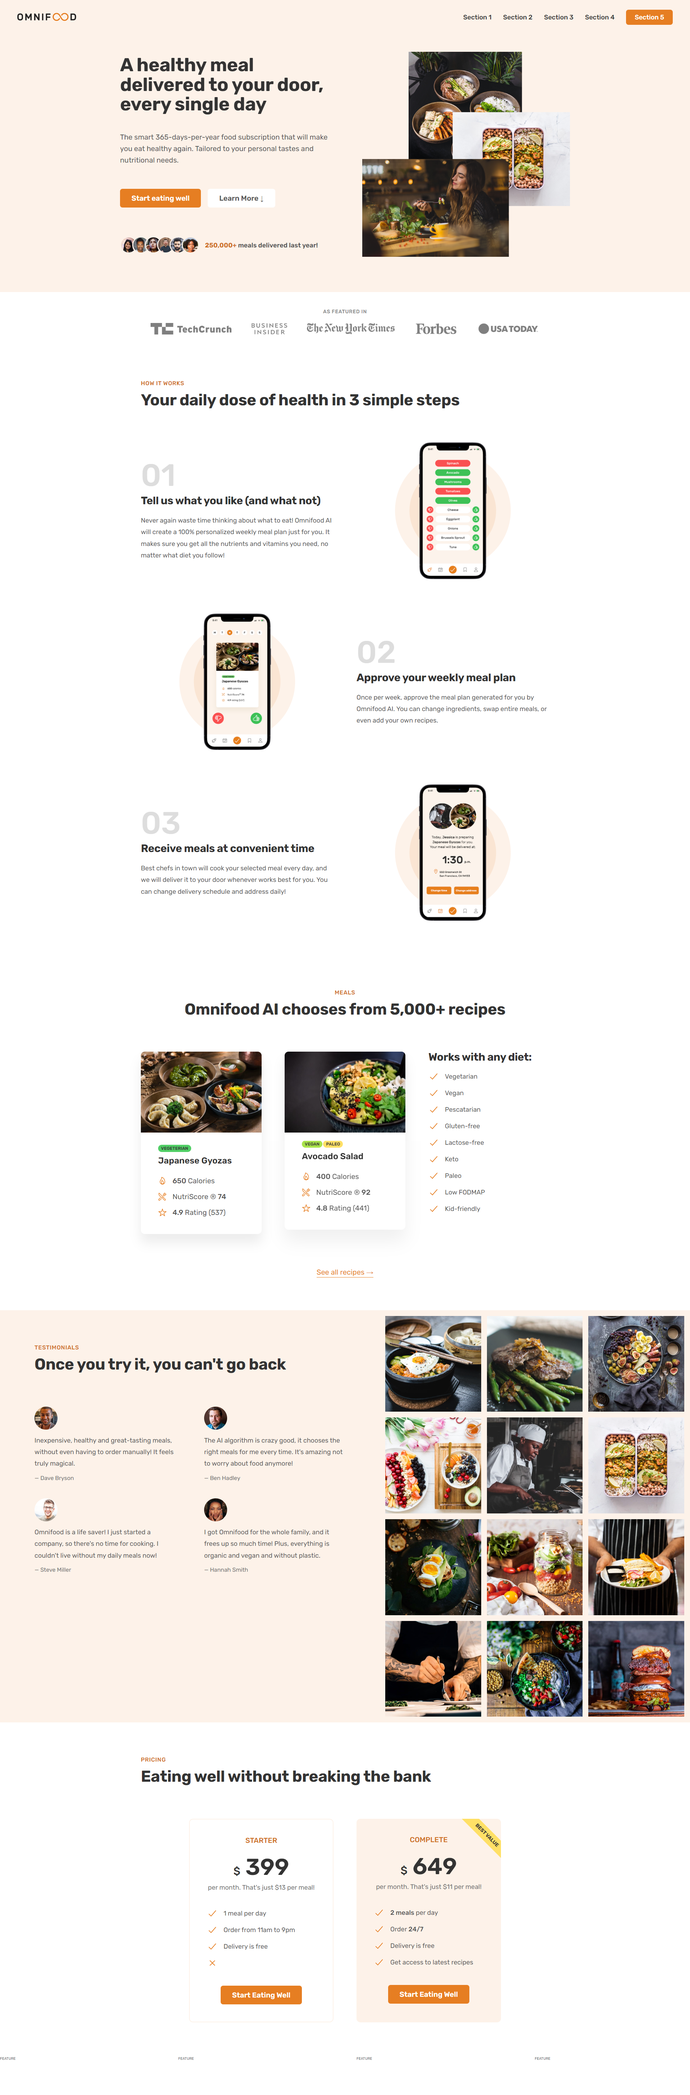
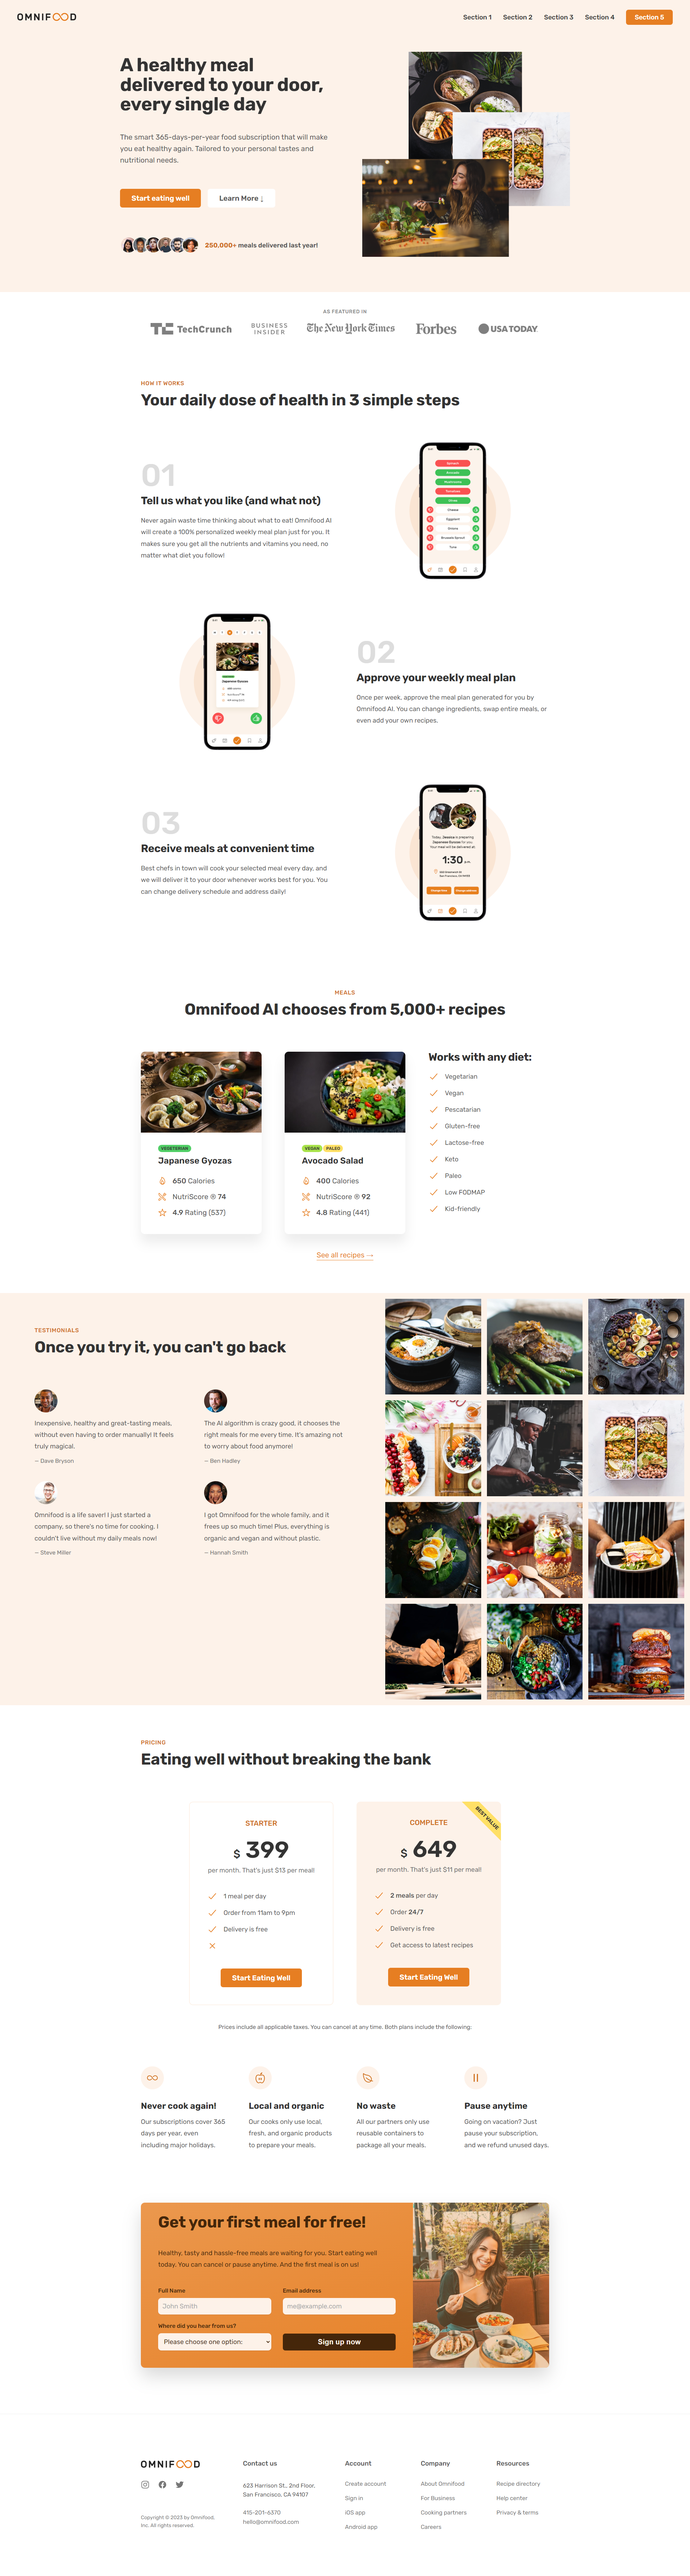
footer added, first past done, responsive prep

diff --git a/index.html b/index.html
@@ -20,6 +20,8 @@
         <link rel="stylesheet" href="css/sections/meals.css" />
         <link rel="stylesheet" href="css/sections/testimonials.css" />
         <link rel="stylesheet" href="css/sections/pricing.css" />
+        <link rel="stylesheet" href="css/sections/cta-form.css" />
+        <link rel="stylesheet" href="css/sections/footer.css" />
     </head>
     <body>
         <header class="header">
@@ -646,6 +648,182 @@
                 </div>
             </div>
         </section>
+
+        <section class="section-cta">
+            <div class="container">
+                <div class="cta">
+                    <div class="cta-content-box">
+                        <h2 class="heading-secondary">
+                            Get your first meal for free!
+                        </h2>
+                        <p class="cta-text">
+                            Healthy, tasty and hassle-free meals are waiting for
+                            you. Start eating well today. You can cancel or
+                            pause anytime. And the first meal is on us!
+                        </p>
+                        <form action="#" class="form-cta">
+                            <div>
+                                <label for="full-name">Full Name</label>
+                                <input
+                                    type="text"
+                                    name="full-name"
+                                    id="full-name"
+                                    placeholder="John Smith"
+                                    required
+                                />
+                            </div>
+
+                            <div>
+                                <label for="email">Email address</label>
+                                <input
+                                    type="email"
+                                    name="email"
+                                    id="email"
+                                    placeholder="me@example.com"
+                                    required
+                                />
+                            </div>
+
+                            <div>
+                                <label for="select-where"
+                                    >Where did you hear from us?</label
+                                >
+                                <select name="select-where" id="select-where">
+                                    <option value="">
+                                        Please choose one option:
+                                    </option>
+                                    <option value="friends">
+                                        Friends and family
+                                    </option>
+                                    <option value="youtube">
+                                        YouTube video
+                                    </option>
+                                    <option value="podcast">Podcast</option>
+                                    <option value="ad">Facebook ad</option>
+                                    <option value="others">Others</option>
+                                </select>
+                            </div>
+
+                            <button class="form-btn">Sign up now</button>
+                        </form>
+                    </div>
+                    <!-- img stays in css -->
+                    <div
+                        class="cta-img-box"
+                        role="img"
+                        aria-label="Woman eating food"
+                    ></div>
+                </div>
+            </div>
+        </section>
+
+        <footer class="footer">
+            <div class="container grid footer-grid">
+                <div class="logo-col">
+                    <a href="#" class="footer-logo">
+                        <img
+                            src="img/omnifood-logo.png"
+                            alt="Omnifood Logo"
+                            class="logo"
+                        />
+                    </a>
+                    <div class="social-links-box">
+                        <ul class="social-links">
+                            <li>
+                                <a class="footer-link" href="#"
+                                    ><ion-icon
+                                        class="social-icon"
+                                        name="logo-instagram"
+                                    ></ion-icon
+                                ></a>
+                            </li>
+                            <li>
+                                <a class="footer-link" href="#"
+                                    ><ion-icon
+                                        class="social-icon"
+                                        name="logo-facebook"
+                                    ></ion-icon
+                                ></a>
+                            </li>
+                            <li>
+                                <a class="footer-link" href="#"
+                                    ><ion-icon
+                                        class="social-icon"
+                                        name="logo-twitter"
+                                    ></ion-icon
+                                ></a>
+                            </li>
+                        </ul>
+                    </div>
+                    <p class="copyright">
+                        Copyright &copy; 2023 by Omnifood, Inc. All rights
+                        reserved.
+                    </p>
+                </div>
+
+                <div class="address-col">
+                    <p class="footer-heading">Contact us</p>
+                    <address class="contacts">
+                        <p class="address">
+                            623 Harrison St., 2nd Floor, San Francisco, CA 94107
+                        </p>
+                        <a class="footer-link" href="tel:415-201-6370">415-201-6370</a> <br />
+                        <a class="footer-link" href="mail:hello@omnifood.com">hello@omnifood.com</a>
+                    </address>
+                </div>
+
+                <nav class="nav-col">
+                    <p class="footer-heading">Account</p>
+                    <ul class="footer-nav">
+                        <li>
+                            <a href="#" class="footer-link">Create account</a>
+                        </li>
+                        <li>
+                            <a href="#" class="footer-link">Sign in</a>
+                        </li>
+                        <li>
+                            <a href="#" class="footer-link">iOS app</a>
+                        </li>
+                        <li>
+                            <a href="#" class="footer-link">Android app</a>
+                        </li>
+                    </ul>
+                </nav>
+
+                <nav class="nav-col">
+                    <p class="footer-heading">Company</p>
+                    <ul class="footer-nav">
+                        <li>
+                            <a href="#" class="footer-link">About Omnifood</a>
+                        </li>
+                        <li>
+                            <a href="#" class="footer-link">For Business</a>
+                        </li>
+                        <li>
+                            <a href="#" class="footer-link">Cooking partners</a>
+                        </li>
+                        <li>
+                            <a href="#" class="footer-link">Careers</a>
+                        </li>
+                    </ul>
+                </nav>
+
+                <nav class="nav-col">
+                    <p class="footer-heading">Resources</p>
+                    <ul class="footer-nav">
+                        <li>
+                            <a href="#" class="footer-link">Recipe directory</a>
+                        </li>
+                        <li>
+                            <a href="#" class="footer-link">Help center</a>
+                        </li>
+                        <li>
+                            <a href="#" class="footer-link">Privacy & terms</a>
+                        </li>
+                    </ul>
+                </nav>
+            </div>
+        </footer>
 
         <script
             type="module"

diff --git a/css/sections/cta-form.css b/css/sections/cta-form.css
@@ -1,0 +1,99 @@
+.section-cta {
+    padding: 4.8rem 0 12.8rem 0;
+}
+
+.cta {
+    display: grid;
+    grid-template-columns: 2fr 1fr;
+    background-image: linear-gradient(to right bottom, #eb984e, #e67e22);
+    border-radius: 11px;
+    overflow: hidden;
+    box-shadow: 0 2.4rem 4.8rem rgba(0, 0, 0, 0.15);
+    color: #45260a;
+}
+
+.cta-img-box {
+    background-image: linear-gradient(
+            to right bottom,
+            rgba(235, 151, 78, 0.35),
+            rgba(230, 125, 34, 0.35)
+        ),
+        url('../../img/eating.jpg');
+    background-size: cover;
+    background-position: center;
+}
+
+.cta-content-box {
+    padding: 3.2rem 4.8rem 4.8rem 4.8rem;
+}
+
+.form-cta {
+    display: grid;
+    grid-template-columns: 1fr 1fr;
+
+    column-gap: 3.2rem;
+    row-gap: 2.4rem;
+}
+
+.cta-text {
+    font-size: 1.8rem;
+    line-height: 1.8;
+    color: inherit;
+    margin-bottom: 4.8rem;
+}
+
+.cta .heading-secondary {
+    color: #45260a;
+    margin-bottom: 4.8rem;
+}
+
+.form-cta label {
+    display: block;
+    font-size: 1.6rem;
+    font-weight: 500;
+    color: inherit;
+    margin-bottom: 1.2rem;
+}
+
+.form-cta input,
+.form-cta select {
+    width: 100%;
+    background-color: #fdf2e9;
+    padding: 1.2rem;
+    border-radius: 9px;
+    border: none;
+    color: inherit;
+    font-size: 1.8rem;
+    font-family: inherit;
+    box-shadow: 0 1px 2px rgba(0, 0, 0, 0.1) ;
+}
+
+.form-cta input::placeholder {
+    color: #aaa;
+}
+
+.form-cta *:focus {
+    box-shadow: 0 0 0 0.8rem rgba(253, 242, 233, 0.5);
+}
+
+
+.form-btn {
+    display: inline-block;
+    align-self: end;
+    border: none;
+    cursor: pointer;
+    font-size: 2rem;
+    font-weight: 600;
+    border-radius: 7px;
+    background-color: #45260a;
+    color: #fdf2e9;
+    padding: 1.2rem;
+
+    transition: all 0.3s;
+
+}
+
+.form-btn:hover {
+    background-color: #fff;
+    color: #555;
+}

diff --git a/css/sections/footer.css b/css/sections/footer.css
@@ -1,0 +1,76 @@
+.footer {
+    padding: 12.8rem 0;
+
+    border-top: 1px solid #eee;
+}
+
+.footer-grid {
+    grid-template-columns: 1.5fr 1.5fr 1fr 1fr 1fr;
+}
+
+.logo-col {
+    display: flex;
+    flex-direction: column;
+}
+
+
+.footer-logo {
+    display: block;
+    margin-bottom: 3.2rem;
+}
+
+
+.social-links {
+    display: flex;
+    list-style: none;
+    gap: 2.4rem;
+}
+
+.social-icon {
+    font-size: 2.4rem;
+}
+
+.copyright {
+    color: #767676;
+    font-size: 1.4rem;
+    line-height: 1.6;
+    margin-top: auto;
+}
+
+.contacts {
+    font-style: normal;
+    font-size: 1.6rem;
+    line-height: 1.6;
+}
+
+.address {
+    margin-bottom: 2.4rem;
+}
+
+.footer-heading {
+    font-size: 1.8rem;
+    font-weight: 500;
+    margin-bottom: 4rem;
+}
+
+.footer-nav {
+    list-style: none;
+
+    display: flex;
+    flex-direction: column;
+    gap: 2.4rem;
+}
+
+.footer-link:link,
+.footer-link:visited {
+    font-size: 1.6rem;
+    text-decoration: none;
+    color: #767676;
+
+    transition: all 0.3s;
+}
+
+.footer-link:hover,
+.footer-link:active {
+  color: #555;
+}

diff --git a/css/common.css b/css/common.css
@@ -79,6 +79,11 @@ strong {
     grid-template-columns: repeat(4, 1fr);
 }
 
+.grid--cols-5 {
+    grid-template-columns: repeat(5, 1fr);
+}
+
+
 .grid {
     display: grid;
     row-gap: 9.6rem;
@@ -160,6 +165,13 @@ strong {
     font-size: 2rem;
     line-height: 1.6;
     margin-bottom: 6.4rem;
+}
+
+
+*:focus {
+    outline: none;
+    box-shadow: 0 0 0 0.8rem rgba(230, 125, 34, 0.5);
+
 }
 
 .btn:link,
